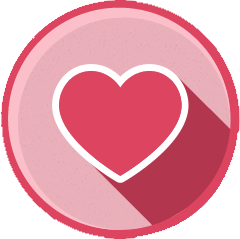
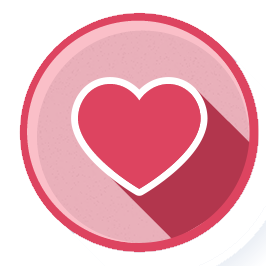
adding fav/rec images with identical dimensions

diff --git a/public/ng/app/scss/partials/_advice.scss b/public/ng/app/scss/partials/_advice.scss
@@ -18,14 +18,14 @@
     width:         100%;
 
     .item {
-      width:            141px;
-      height:           189px;
-      float:            left;
-      border-radius:    5px;
-      color:            white;
-      border:           0;
-      text-align:       center;
-      padding:          15px 10px;
+      width:         49%;
+      height:        50%;
+      float:         left;
+      border-radius: 5px;
+      color:         white;
+      border:        0;
+      text-align:    center;
+      padding:       15px 10px;
 
       img {
         width: 80%;

diff --git a/public/ng/app/templates/advice/main.html b/public/ng/app/templates/advice/main.html
@@ -10,7 +10,7 @@
       <div class="item yellow pattern-bg" ui-sref="app.recommended"
         ng-class="{ 'active': isActiveOne }" ng-init="isActiveOne = false" ng-click="isActiveOne = !isActiveOne">
           <h2>Recommended For You</h2>
-          <img ng-src="./images/advice/main/recommended.png">
+          <img ng-src="./images/advice/main/rec.png">
       </div>
 
       <div class="item red pattern-bg" ui-sref="app.favorites"
